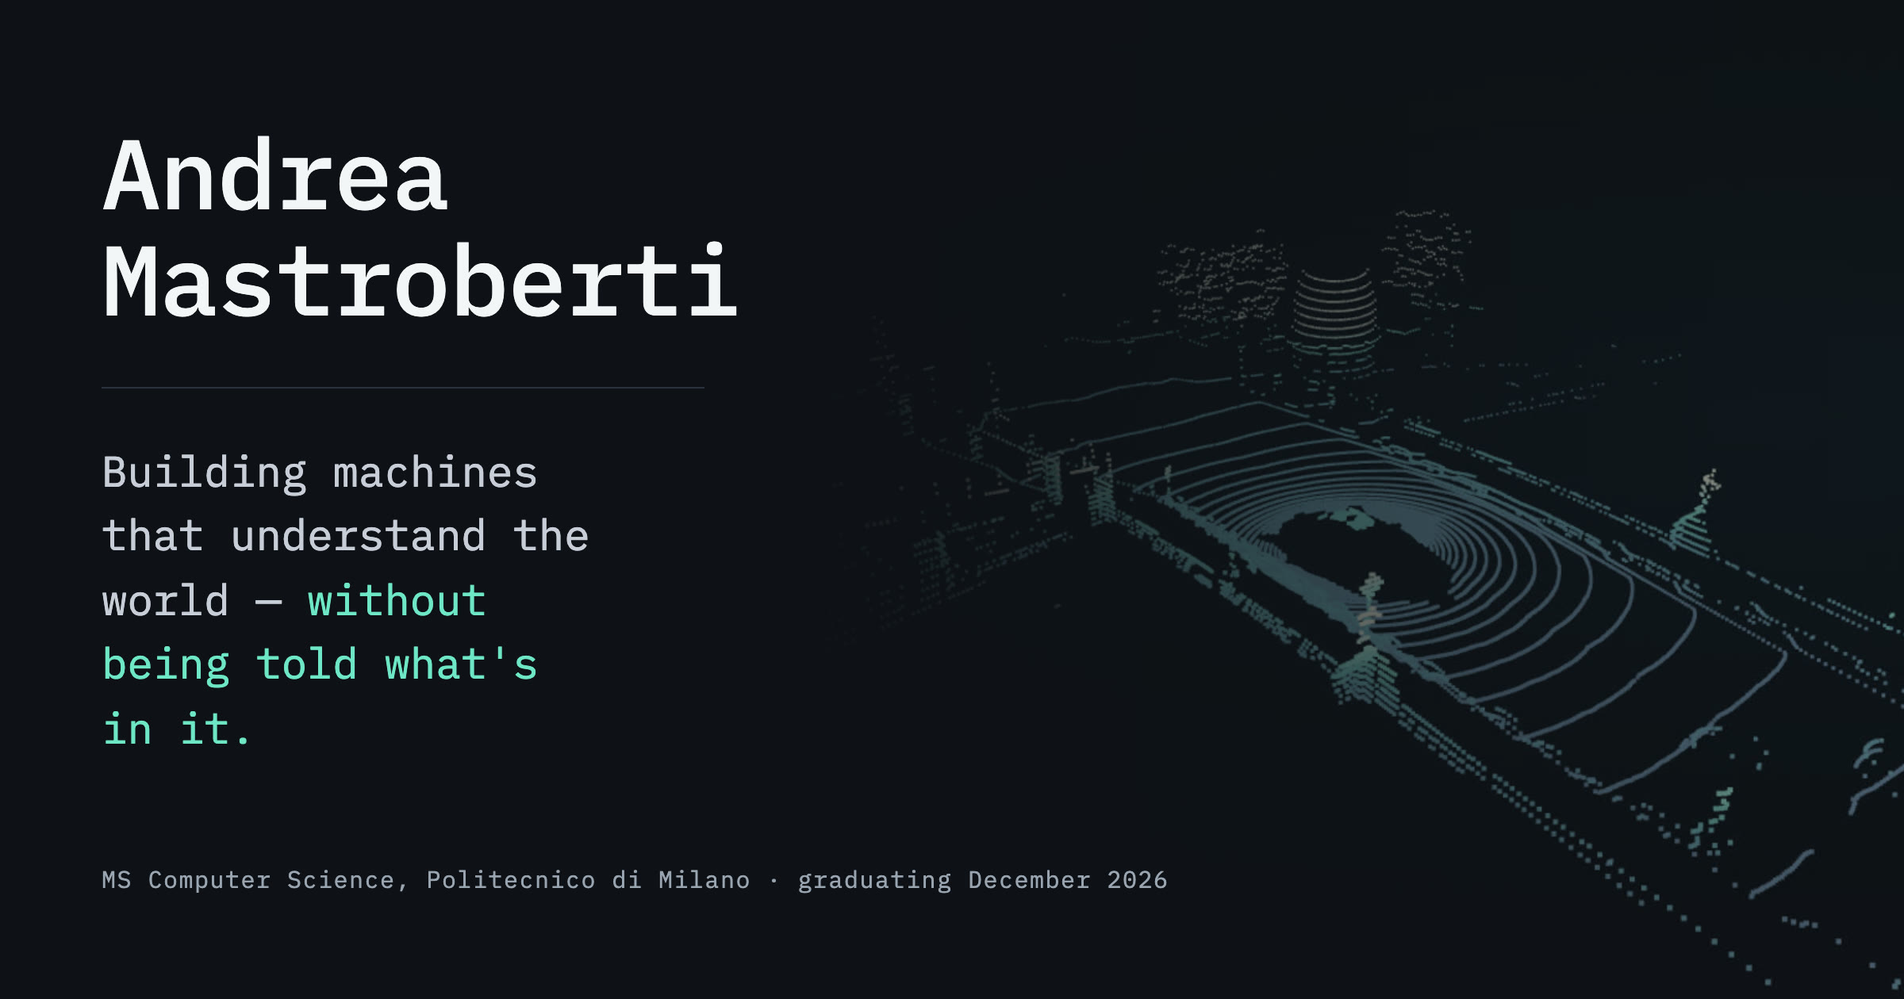
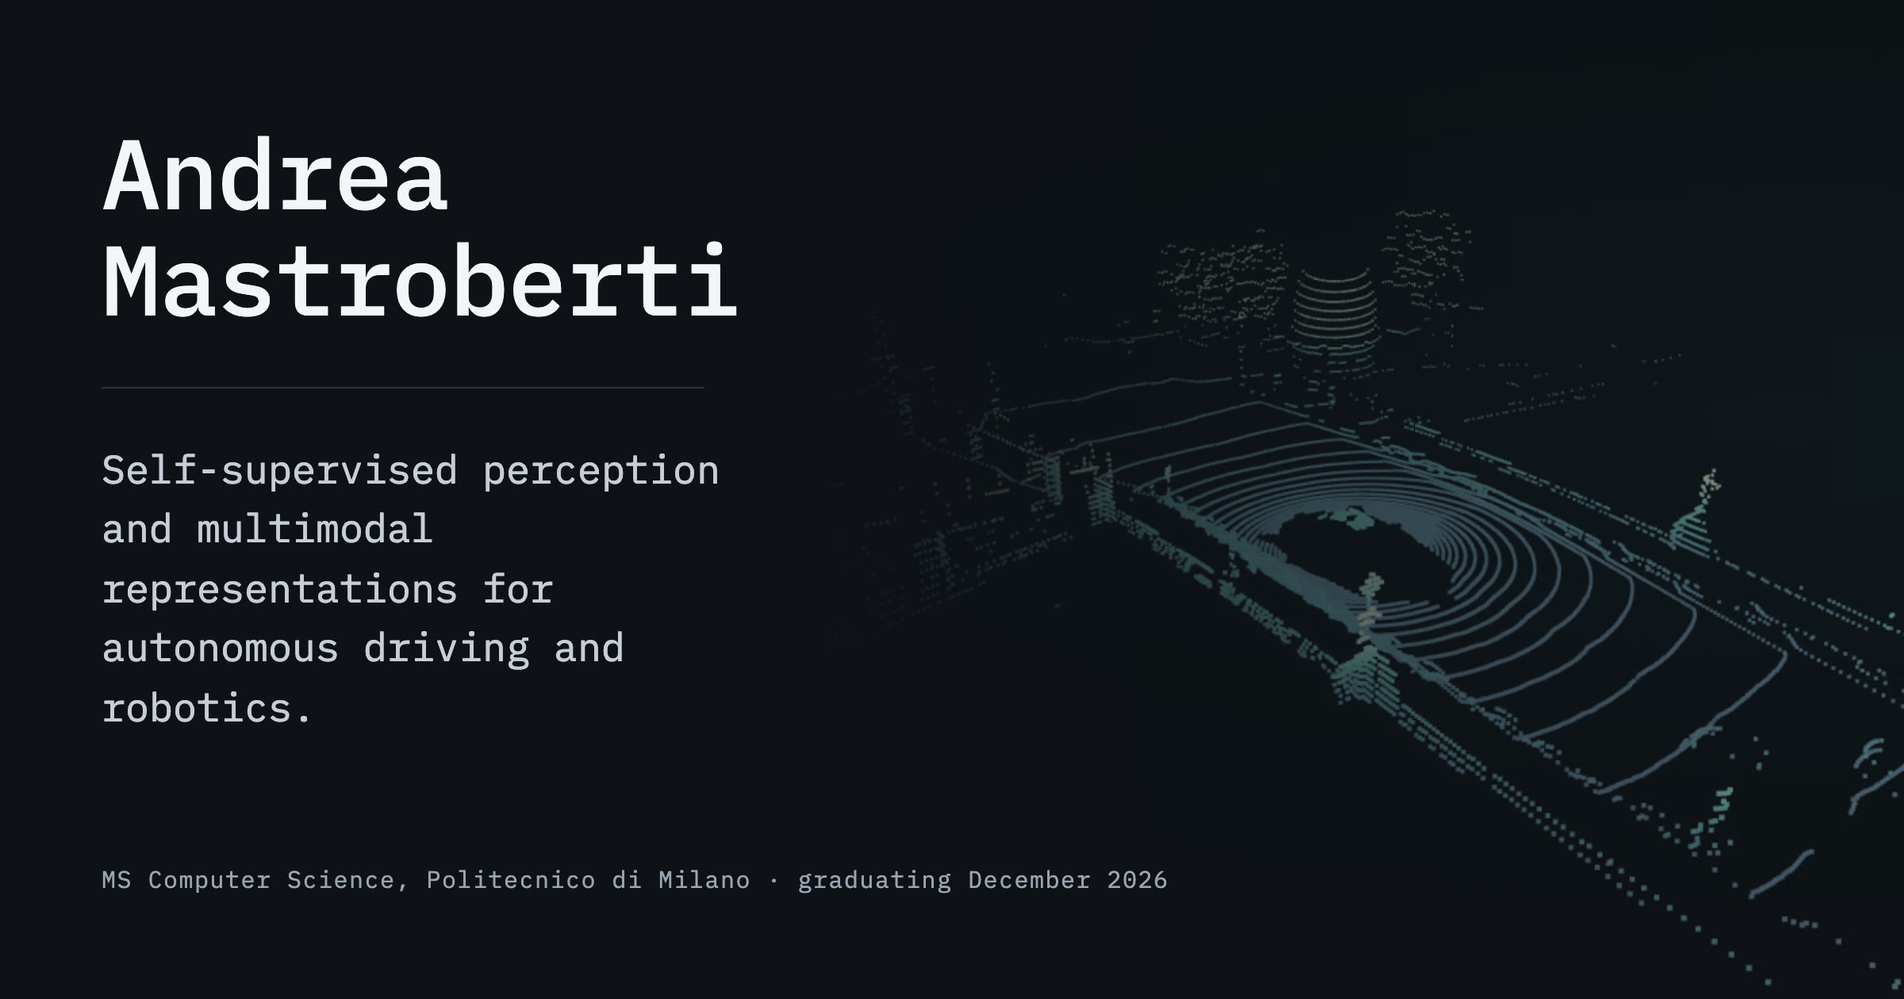
Two-column sections: heading rail beside the prose
Every section ran as a single narrow column against a 1140px wrap, so the right
third of the page was empty at desktop widths. Above 900px the kicker and
heading now move into a shared left rail and the prose fills the column beside
it; below that they stack as before. Figures still span the full wrap — the
thesis figure carries per-epoch labels that need the width.

Sections now occupy 92-100% of the wrap, up from ~61%.

Also regenerates the share card against the current hero line.

Claude-Session: https://claude.ai/code/session_01T1jdvcFgUXxr6TqYTitZzp

Changed region(s): [[0.0312, 0.4643, 0.375, 0.7429]]

diff --git a/index.html b/index.html
@@ -5,12 +5,12 @@
 <meta name="viewport" content="width=device-width, initial-scale=1">
 
 <title>Andrea Mastroberti</title>
-<meta name="description" content="Andrea Mastroberti — MS Computer Science at Politecnico di Milano. Multimodal, self-supervised perception for autonomous vehicles, spatial computing and robotics.">
+<meta name="description" content="Andrea Mastroberti — MS Computer Science at Politecnico di Milano. Perception, self-supervised learning, and robotics.">
 <meta name="author" content="Andrea Mastroberti">
 
 <meta property="og:type" content="profile">
-<meta property="og:title" content="Andrea Mastroberti — building machines that understand the world">
-<meta property="og:description" content="Multimodal, self-supervised perception for autonomous vehicles, spatial computing and robotics. MS Computer Science, Politecnico di Milano.">
+<meta property="og:title" content="Andrea Mastroberti">
+<meta property="og:description" content="MS Computer Science at Politecnico di Milano. Self-supervised perception for robotics and autonomous driving.">
 <meta property="og:url" content="https://dre-droid.github.io/">
 <meta property="og:image" content="https://dre-droid.github.io/assets/img/og.jpg">
 <meta property="og:image:width" content="1200">
@@ -20,7 +20,7 @@
 <link rel="canonical" href="https://dre-droid.github.io/">
 <link rel="icon" href="assets/img/favicon.svg" type="image/svg+xml">
 <link rel="preload" href="assets/fonts/plex-mono-400.woff2" as="font" type="font/woff2" crossorigin>
-<link rel="stylesheet" href="css/main.css?v=4">
+<link rel="stylesheet" href="css/main.css?v=5">
 </head>
 <body>
 
@@ -57,8 +57,7 @@
   <div class="hero__body">
     <h1 class="hero__name">Andrea Mastroberti</h1>
     <p class="hero__claim">
-      Building machines that understand the world —
-      <em>without being told what's in it.</em>
+      Self-supervised perception and multimodal representations for autonomous driving and robotics.
     </p>
     <p class="hero__cred">
       MS Computer Science, Politecnico di Milano
@@ -70,60 +69,30 @@
 <section class="now" aria-label="Current status">
   <h2 class="now__h">Now</h2>
   <p>
-  MS thesis with <strong> <a href="https://aida.polimi.it/" rel="noopener">AIDA</a></strong> / <strong><a href="https://niulinx.ai" rel="noopener">Niulinx</a></strong>
-    — multimodal self-supervised pretraining for LiDAR and camera.
+    MS thesis with <strong><a href="https://aida.polimi.it/" rel="noopener">AIDA</a></strong> and <strong><a href="https://niulinx.ai" rel="noopener">Niulinx</a></strong>
+    — joint self-supervised pretraining on unlabelled LiDAR and camera data.
   </p>
   <p>
-    Graduating <strong>December 2026</strong>. Looking for embodied ML roles.
+    Graduating <strong>December 2026</strong>. Looking for ML and robotics roles.
   </p>
 </section>
-
 
 <!-- ───────────────────────── THESIS ───────────────────────── -->
 <section class="work work--lead" id="thesis">
   <div class="work__head">
-    <p class="work__kicker">MS thesis <span class="sep">·</span> AIDA / Niulinx <span class="sep">·</span> in progress</p>
-    <h2 class="work__h">Self-supervised pretraining for urban autonomy</h2>
+    <p class="work__kicker">MS Thesis <span class="sep">·</span> AIDA / Niulinx <span class="sep">·</span> In Progress</p>
+    <h2 class="work__h">Multimodal pretraining for autonomous driving</h2>
   </div>
 
   <div class="work__body">
     <p>
-      Labelling 3D boxes across LiDAR sweeps and their matching camera frames is slow and
-      expensive. The raw driving data is free and piling up. The signal is already there —
-      it just has no labels on it.
+      3D bounding box annotations are expensive, but raw driving logs are plentiful. My thesis adapts <strong>UniTR</strong> to pretrain a single transformer backbone directly on paired, unlabelled LiDAR and camera streams.
     </p>
     <p>
-      My thesis pretrains on unlabelled LiDAR and camera <em>jointly</em>, adapting
-      <strong>UniTR</strong> — one transformer over both modalities rather than two
-      backbones fused late.
+      The core work is handling the structural asymmetry between sparse 3D point clouds and dense 2D images, avoiding representation collapse during self-supervised training, and designing compute-efficient evaluation benchmarks.
     </p>
-    <p>
-      This comes with some challenges as well as many ideas to solve them: how do you
-      create labels yourself? What should the model learn and how to make sure that
-      it actually does? A simple idea is masked reconstruction, make the model predict
-      a corrupted signal - but this comes with the cost of learning noise; a more 
-      sophisticated approach is self-distillation - have two copies of the model and feed
-      them two views of the same scene, forcing their embeddings to match; clever but
-      even more susceptible to issues like collapsing representations, shortcuts and
-      stability over long training horizons. These issues aren't unique to driving,
-      they're general problems in SSL (self supervised learning). In AVs though the
-      hard part is structural, there are multiple input modalities.
-      LiDAR is sparse, irregular, metric; camera is dense,
-      regular, projective. Fusing them means choosing where in the network they meet, and
-      that choice constrains everything after it.
-    </p>
-    <p>
-      What surprised me though is how much of the difficulty is experimental rather than
-      conceptual. Evaluation gets expensive enough that ordinary practice breaks down:
-      instead of early-stopping on a patience counter, you may have to commit to an epoch
-      budget up front and accept leaving performance on the table. A simple evaluation may
-      not be so simple, nor cheap.
-    </p>
-
     <p class="work__bridge">
-      Perception is an ubiquitous problem: depth and RGB fused without labels isn't 
-      specific to driving. It's close to what a
-      headset solves indoors.
+      While tested on driving data, learning unified metric-RGB representations applies equally well to indoor robotics and spatial computing.
     </p>
   </div>
 
@@ -131,15 +100,8 @@
     <video class="work__video" autoplay muted loop playsinline preload="none"
            poster="assets/img/thesis-poster.jpg" width="1392" height="876"
            data-autoloop data-src="assets/video/thesis.mp4"
-           aria-label="Thirty training epochs of the model's learned features, side by side:
-                       a bird's-eye LiDAR feature map and three camera views, each coloured by
-                       the first three PCA components. Early epochs are near-random speckle; by
-                       the end the road surface, vegetation and buildings each hold their own
-                       colour, with no labels used at any point."></video>
-    <figcaption>Thirty epochs of pretraining, no labels anywhere. Features projected to RGB
-                by PCA, so colour means position in the representation: speckle at epoch 1,
-                and by epoch 30 the road, the vegetation and the buildings have each settled
-                into their own. This turns out to meaningfully outperform starting from scratch.</figcaption>
+           aria-label="Feature evolution over 30 pretraining epochs projected to RGB via PCA."></video>
+    <figcaption>Thirty epochs of pretraining without labels (features projected to RGB via PCA). By epoch 30, the network cleanly separates road surfaces, vegetation, and buildings.</figcaption>
   </figure>
 </section>
 
@@ -147,50 +109,24 @@
 <section class="work" id="essim">
   <div class="work__head">
     <p class="work__kicker">Google Summer of Code 2024 <span class="sep">·</span> FFmpeg</p>
-    <h2 class="work__h">Improving perceptual similarity metrics</h2>
+    <h2 class="work__h">Fast perceptual metrics in FFmpeg</h2>
   </div>
 
   <div class="work__body">
     <p>
-      Selected for Google Summer of Code to implement <strong>enhanced SSIM</strong> in
-      <strong>FFmpeg</strong> — the video infrastructure sitting underneath effectively
-      every device that plays video.
+      Implemented the <strong>enhanced SSIM (eSSIM)</strong> filter in C for FFmpeg.
     </p>
     <p>
-      The direct implementation evaluates every overlapping window independently:
-      <code>O(mnk²)</code> for an <code>m&times;n</code> frame and a <code>k&times;k</code>
-      window, so it degrades as the window grows. I rebuilt it around
-      <strong>summed-area tables</strong>, which reduce any window to four lookups no matter
-      how large it is — taking the window dimension out of the cost entirely.
+      The standard sliding-window implementation runs in <code>O(mnk²)</code> for an <code>m × n</code> frame and a <code>k × k</code> window. Rewriting the statistics with <strong>summed-area tables</strong> reduced this to <code>O(mn)</code>, requiring just four memory lookups per window regardless of its size.
     </p>
 
-    <figure class="work__figure work__figure--inline">
-      <div class="complexity">
-        <div class="complexity__row">
-          <span class="complexity__label">Direct</span>
-          <code class="complexity__val">O(mnk²)</code>
-          <span class="complexity__note">cost grows with window size</span>
-        </div>
-        <div class="complexity__arrow" aria-hidden="true">↓ summed-area tables</div>
-        <div class="complexity__row complexity__row--after">
-          <span class="complexity__label">Rewritten</span>
-          <code class="complexity__val">O(mn)</code>
-          <span class="complexity__note">4 lookups per window, any <em>k</em></span>
-        </div>
-      </div>
-      <figcaption>Four lookups per window instead of <em>k</em>², so the cost of a window
-                  stops depending on how big it is.</figcaption>
-    </figure>
-
     <p>
-      I also added Minkowski pooling at <code>p=3</code> and <code>p=4</code>, configurable
-      window size and stride, and multithreading, then took the patch through review on
-      ffmpeg-devel. 
+      Added multithreading and configurable pooling, and upstreamed the patch to <code>ffmpeg-devel</code>.
     </p>
     <ul class="work__links">
-      <li><a href="https://gist.github.com/dre-droid/effd22ce0f7ed13914d446367b4bab64" rel="noopener">The implementation</a></li>
-      <li><a href="https://trac.ffmpeg.org/wiki/SponsoringPrograms/GSoC/2024/Results" rel="noopener">FFmpeg's GSoC 2024 results</a></li>
-      <li><a href="https://summerofcode.withgoogle.com/archive/2024/projects/erwtAKxC" rel="noopener">GSoC archive</a></li>
+      <li><a href="https://gist.github.com/dre-droid/effd22ce0f7ed13914d446367b4bab64" rel="noopener">Implementation</a></li>
+      <li><a href="https://trac.ffmpeg.org/wiki/SponsoringPrograms/GSoC/2024/Results" rel="noopener">GSoC 2024 Results</a></li>
+      <li><a href="https://summerofcode.withgoogle.com/archive/2024/projects/erwtAKxC" rel="noopener">GSoC Archive</a></li>
     </ul>
   </div>
 </section>
@@ -198,92 +134,62 @@
 <!-- ───────────────────────── DRONE CONTEST ───────────────────────── -->
 <section class="work" id="drone">
   <div class="work__head">
-    <p class="work__kicker">Leonardo Drone Contest 2025 <span class="sep">·</span> 2nd nationwide</p>
-    <h2 class="work__h">A ground vehicle, a drone, and a camera that had to agree</h2>
+    <p class="work__kicker">Leonardo Drone Contest 2025 <span class="sep">·</span> 2nd Place Nationwide</p>
+    <h2 class="work__h">Autonomous multi-agent target search</h2>
   </div>
 
   <div class="work__body">
     <p>
-      A UGV, a UAV and a fixed PTZ camera cooperating to navigate an unknown arena and
-      identify targets, with no human in the loop.
+      A ground vehicle, a drone, and a fixed Pan-Tilt-Zoom (PTZ) camera cooperating to map an unknown arena and locate targets with zero human input.
     </p>
     <p>
-      I owned the <strong>PTZ task</strong> — making a wall-mounted Pan-Tilt-Zoom camera 
-      an active sensor
-      that had to locate and decode 30 × 30 cm QR codes placed at random in the field. That
-      meant a policy to scan the arena intelligently and zoom in only on rough detections —
-      enough to find the codes in time, and to see them well enough to decode them.
+      I built the <strong>PTZ vision system</strong>: an active search routine to scan the field, detect candidate 30 × 30 cm QR codes, and dynamically zoom in to decode and localize them in real time.
     </p>
     <ul class="work__links">
-      <li><a href="https://www.repubblica.it/tecnologia/dossier/italian-tech-week-2025/2025/10/02/video/itw_25_-_premio_leonardo_la_cerimonia_di_premiazione_del_drone_contest-424885891/" rel="noopener">Second place nationwide</a></li>
+      <li><a href="https://www.repubblica.it/tecnologia/dossier/italian-tech-week-2025/2025/10/02/video/itw_25_-_premio_leonardo_la_cerimonia_di_premiazione_del_drone_contest-424885891/" rel="noopener">Coverage (Italian Tech Week)</a></li>
     </ul>
   </div>
 
   <figure class="work__figure work__figure--video">
-    <!-- Responsive sources: the two vertical clips stitched into one loop for
-         portrait screens, the horizontal clip for everything else. Chosen by the
-         browser's own media query, so a rotation/resize picks the right one. -->
     <video class="work__video" autoplay muted loop playsinline preload="none"
            poster="assets/img/drone-poster.jpg" width="1280" height="720"
            data-autoloop data-poster-mobile="assets/img/drone-poster-mobile.jpg"
-           aria-label="Drone contest footage: the UGV, UAV and PTZ camera cooperating
-                       in the arena.">
+           aria-label="UGV, UAV, and PTZ camera collaborating during the Leonardo Drone Contest.">
       <source data-src="assets/video/drone-mobile.mp4" media="(max-width: 720px)" type="video/mp4">
       <source data-src="assets/video/drone-desktop.mp4" type="video/mp4">
     </video>
-    <figcaption>The system in the arena. Footage of the contest.</figcaption>
+    <figcaption>The system running during the contest.</figcaption>
   </figure>
 </section>
 
 <!-- ───────────────────────── FURUTA PENDULUM ───────────────────────── -->
 <section class="work" id="pendulum">
   <div class="work__head">
-    <p class="work__kicker">University lab project <span class="sep">·</span> RL <span class="sep">·</span> 3D printing <span class="sep">·</span> Raspberry Pi</p>
-    <h2 class="work__h">Furuta pendulum, from print to policy</h2>
+    <p class="work__kicker">Lab Project <span class="sep">·</span> Reinforcement Learning <span class="sep">·</span> Robotics</p>
+    <h2 class="work__h">Furuta pendulum from scratch</h2>
   </div>
 
   <div class="work__body">
     <p>
-      A rotary inverted pendulum built end to end: 3D-printed mechanism, wiring and
-      controller, with a swing-up and balance policy trained in Stable-Baselines3 and
-      deployed on a Raspberry Pi.
+      A rotary inverted pendulum built end to end: 3D-printed mechanics, motor control circuitry, and embedded policy inference on a Raspberry Pi.
     </p>
     <p>
-      Policies trained in simulation didn't survive contact with the hardware; training
-      directly on the rig did. That gap — between a controller that works in simulation and
-      one that works on a bench — is the part of robotics I find most worth understanding.
-    </p>
-    <p>
-      It also taught me something simulation can't. The safety sensor was mounted on the
-      thing it was protecting: during one unattended run the rig spun out, tore free of the
-      sensor watching for exactly that condition, and kept going at full speed.
-    </p>
-
-    <p class="work__bridge">
-      Fault detection has to survive the fault. Anything sharing a failure mode with what it
-      monitors isn't monitoring it.
+      Trained a swing-up and balance policy in simulation using Stable-Baselines3 (PPO), then tuned domain randomization parameters to bridge the sim-to-real gap on the physical rig.
     </p>
   </div>
 
   <figure class="work__figure">
-    <!-- No src until it scrolls into view: see initVideos() in js/main.js. -->
     <video class="work__video" autoplay muted loop playsinline preload="none"
            poster="assets/img/pendulum-poster.jpg" width="1280" height="720"
            data-autoloop data-src="assets/video/pendulum.mp4"
-           aria-label="The Furuta pendulum running on the bench: the driven arm rotates
-                       and the pendulum rod swings, with the controller and power supply
-                       wired up beside it."></video>
-    <figcaption>The rig running, driven by the trained policy on the Pi.</figcaption>
+           aria-label="Furuta pendulum balancing under real-time RL control."></video>
+    <figcaption>Trained policy balancing on the physical bench.</figcaption>
   </figure>
 </section>
 
-<!-- ───────────────────────── ALSO ───────────────────────── -->
-
-
-
 <!-- ───────────────────────── CONTACT ───────────────────────── -->
 <footer class="contact" id="contact">
-  <h2 class="contact__h">Get in touch</h2>
+  <h2 class="contact__h">Contact</h2>
   <ul class="contact__links">
     <li><a href="mailto:andrea.mastroberti@outlook.com">andrea.mastroberti@outlook.com</a></li>
     <li><a href="https://www.linkedin.com/in/andrea-mastroberti" rel="me noopener">linkedin.com/in/andrea-mastroberti</a></li>
@@ -291,12 +197,7 @@
   </ul>
 
   <p class="colophon">
-    LiDAR sweeps and camera frames on this page come from the
-    <a href="https://www.nuscenes.org/" rel="noopener">nuScenes</a> dataset by Motional,
-    used under
-    <a href="https://creativecommons.org/licenses/by-nc-sa/4.0/" rel="license noopener">CC BY-NC-SA 4.0</a>.
-    Built without a framework; source at
-    <a href="https://github.com/dre-droid/dre-droid.github.io" rel="noopener">dre-droid.github.io</a>.
+    LiDAR sweeps and camera frames from <a href="https://www.nuscenes.org/" rel="noopener">nuScenes</a> by Motional (<a href="https://creativecommons.org/licenses/by-nc-sa/4.0/" rel="license noopener">CC BY-NC-SA 4.0</a>). Built without frameworks; source on <a href="https://github.com/dre-droid/dre-droid.github.io" rel="noopener">GitHub</a>.
   </p>
 </footer>
 

diff --git a/css/main.css b/css/main.css
@@ -52,6 +52,13 @@
   --sect:  clamp(3.25rem, 6vw, 5.25rem);
   --wrap:  1140px;
   --prose: 60ch;
+
+  /* Two-column sections: a left rail of headings and a right column of prose.
+     rail + gap + prose-wide is sized to consume the wrap almost exactly, so the
+     page stops being a narrow ribbon with the right third of every screen empty. */
+  --rail:      minmax(0, 21rem);
+  --rail-gap:  clamp(2rem, 4vw, 3.5rem);
+  --prose-wide: 68ch;
 }
 
 /* ---------- reset-ish ---------- */
@@ -429,6 +436,42 @@ code {
 }
 .colophon a { color: var(--fg-dim); text-decoration-color: var(--rule); }
 .colophon a:hover { color: var(--accent); text-decoration-color: var(--accent); }
+
+/* ============================================================
+   TWO-COLUMN SECTIONS
+   ============================================================ */
+/* Below 900px the sections stack — a narrow viewport has no width to give away.
+   Above it the heading moves into a left rail shared by every section, so the
+   page reads as one column of labels beside one of prose. Figures still span the
+   full wrap: the thesis figure carries per-epoch labels that need the width. */
+@media (min-width: 900px) {
+  .work {
+    display: grid;
+    grid-template-columns: var(--rail) minmax(0, 1fr);
+    column-gap: var(--rail-gap);
+    align-items: start;
+  }
+  .work__head { grid-column: 1; margin-bottom: 0; }
+  .work__body { grid-column: 2; max-width: var(--prose-wide); }
+  .work__figure { grid-column: 1 / -1; }
+  /* The rail sets the measure now; a `ch` cap on the heading would fight it. */
+  .work__h, .work--lead .work__h { max-width: none; }
+
+  .now {
+    grid-template-columns: var(--rail) minmax(0, var(--prose-wide));
+    column-gap: var(--rail-gap);
+  }
+
+  .contact {
+    display: grid;
+    grid-template-columns: var(--rail) minmax(0, 1fr);
+    column-gap: var(--rail-gap);
+    align-items: start;
+  }
+  .contact__h { grid-column: 1; margin-bottom: 0; }
+  .contact__links { grid-column: 2; }
+  .colophon { grid-column: 2; margin-top: 2.25rem; max-width: var(--prose-wide); }
+}
 
 /* ============================================================
    RESPONSIVE

diff --git a/scripts/og-card.html b/scripts/og-card.html
@@ -50,7 +50,7 @@
     letter-spacing: -0.01em;
   }
   hr { border: 0; border-top: 1px solid var(--rule); margin: 34px 0 32px; width: 380px; }
-  .claim { font-size: 27px; line-height: 1.5; color: var(--fg-mid); max-width: 19ch; }
+  .claim { font-size: 25px; line-height: 1.5; color: var(--fg-mid); max-width: 440px; }
   .claim em { font-style: normal; color: var(--accent); }
   .cred {
     position: absolute; left: 64px; bottom: 66px; z-index: 2;
@@ -63,8 +63,8 @@
   <div class="body">
     <h1>Andrea<br>Mastroberti</h1>
     <hr>
-    <p class="claim">Building machines that understand the world —
-      <em>without being told what's in it.</em></p>
+    <p class="claim">Self-supervised perception and multimodal representations
+      for autonomous driving and robotics.</p>
   </div>
   <p class="cred">MS Computer Science, Politecnico di Milano · graduating December 2026</p>
 </body>
